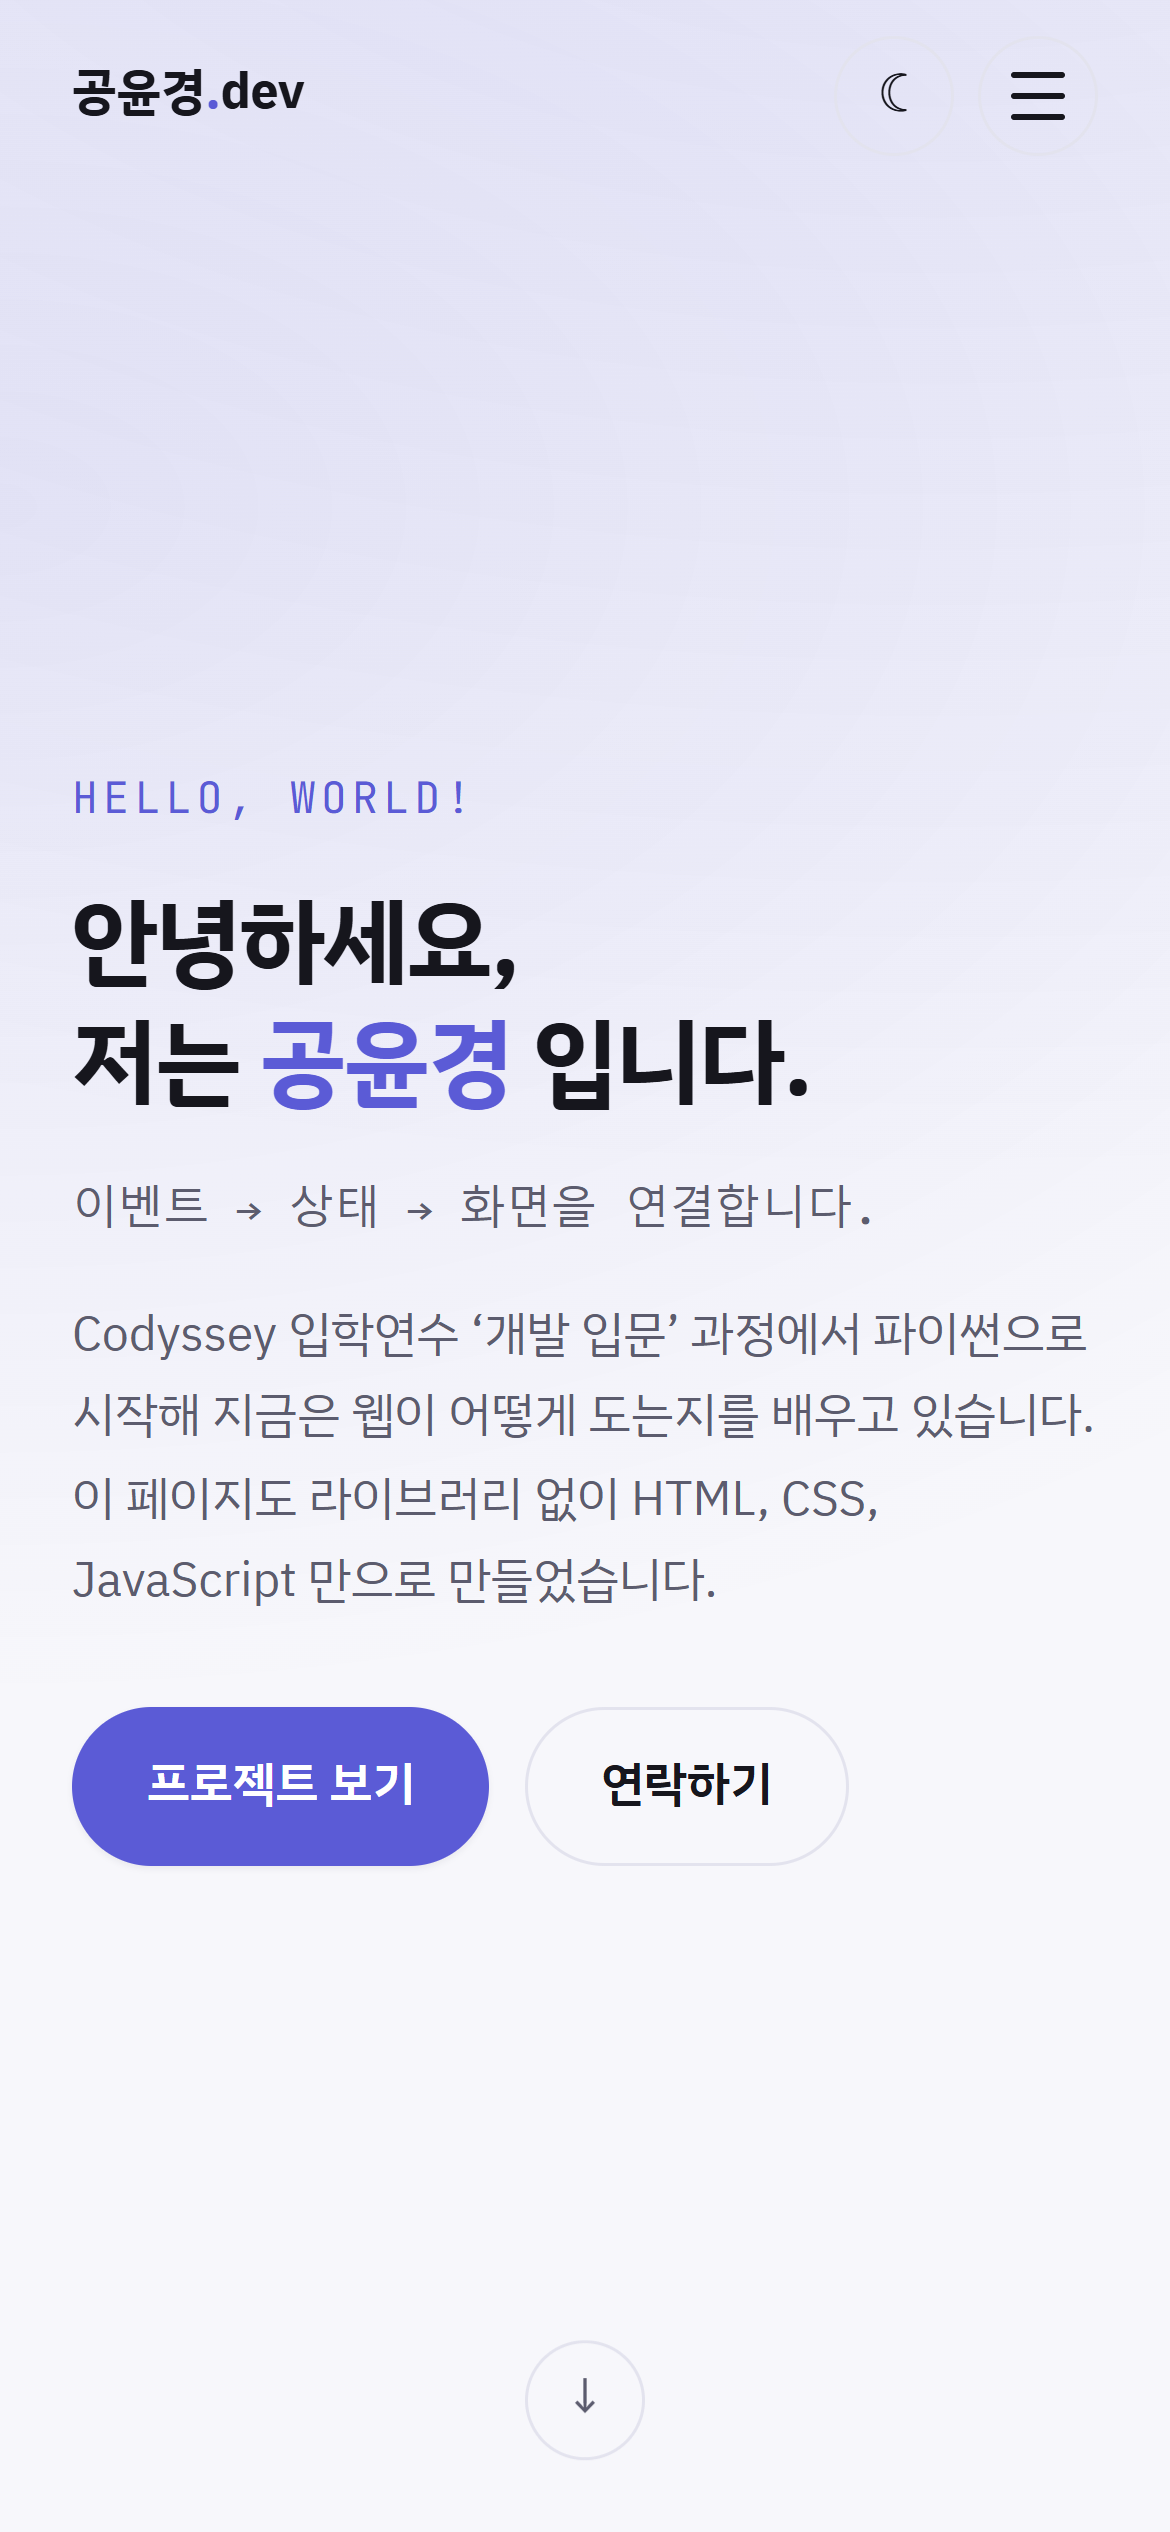
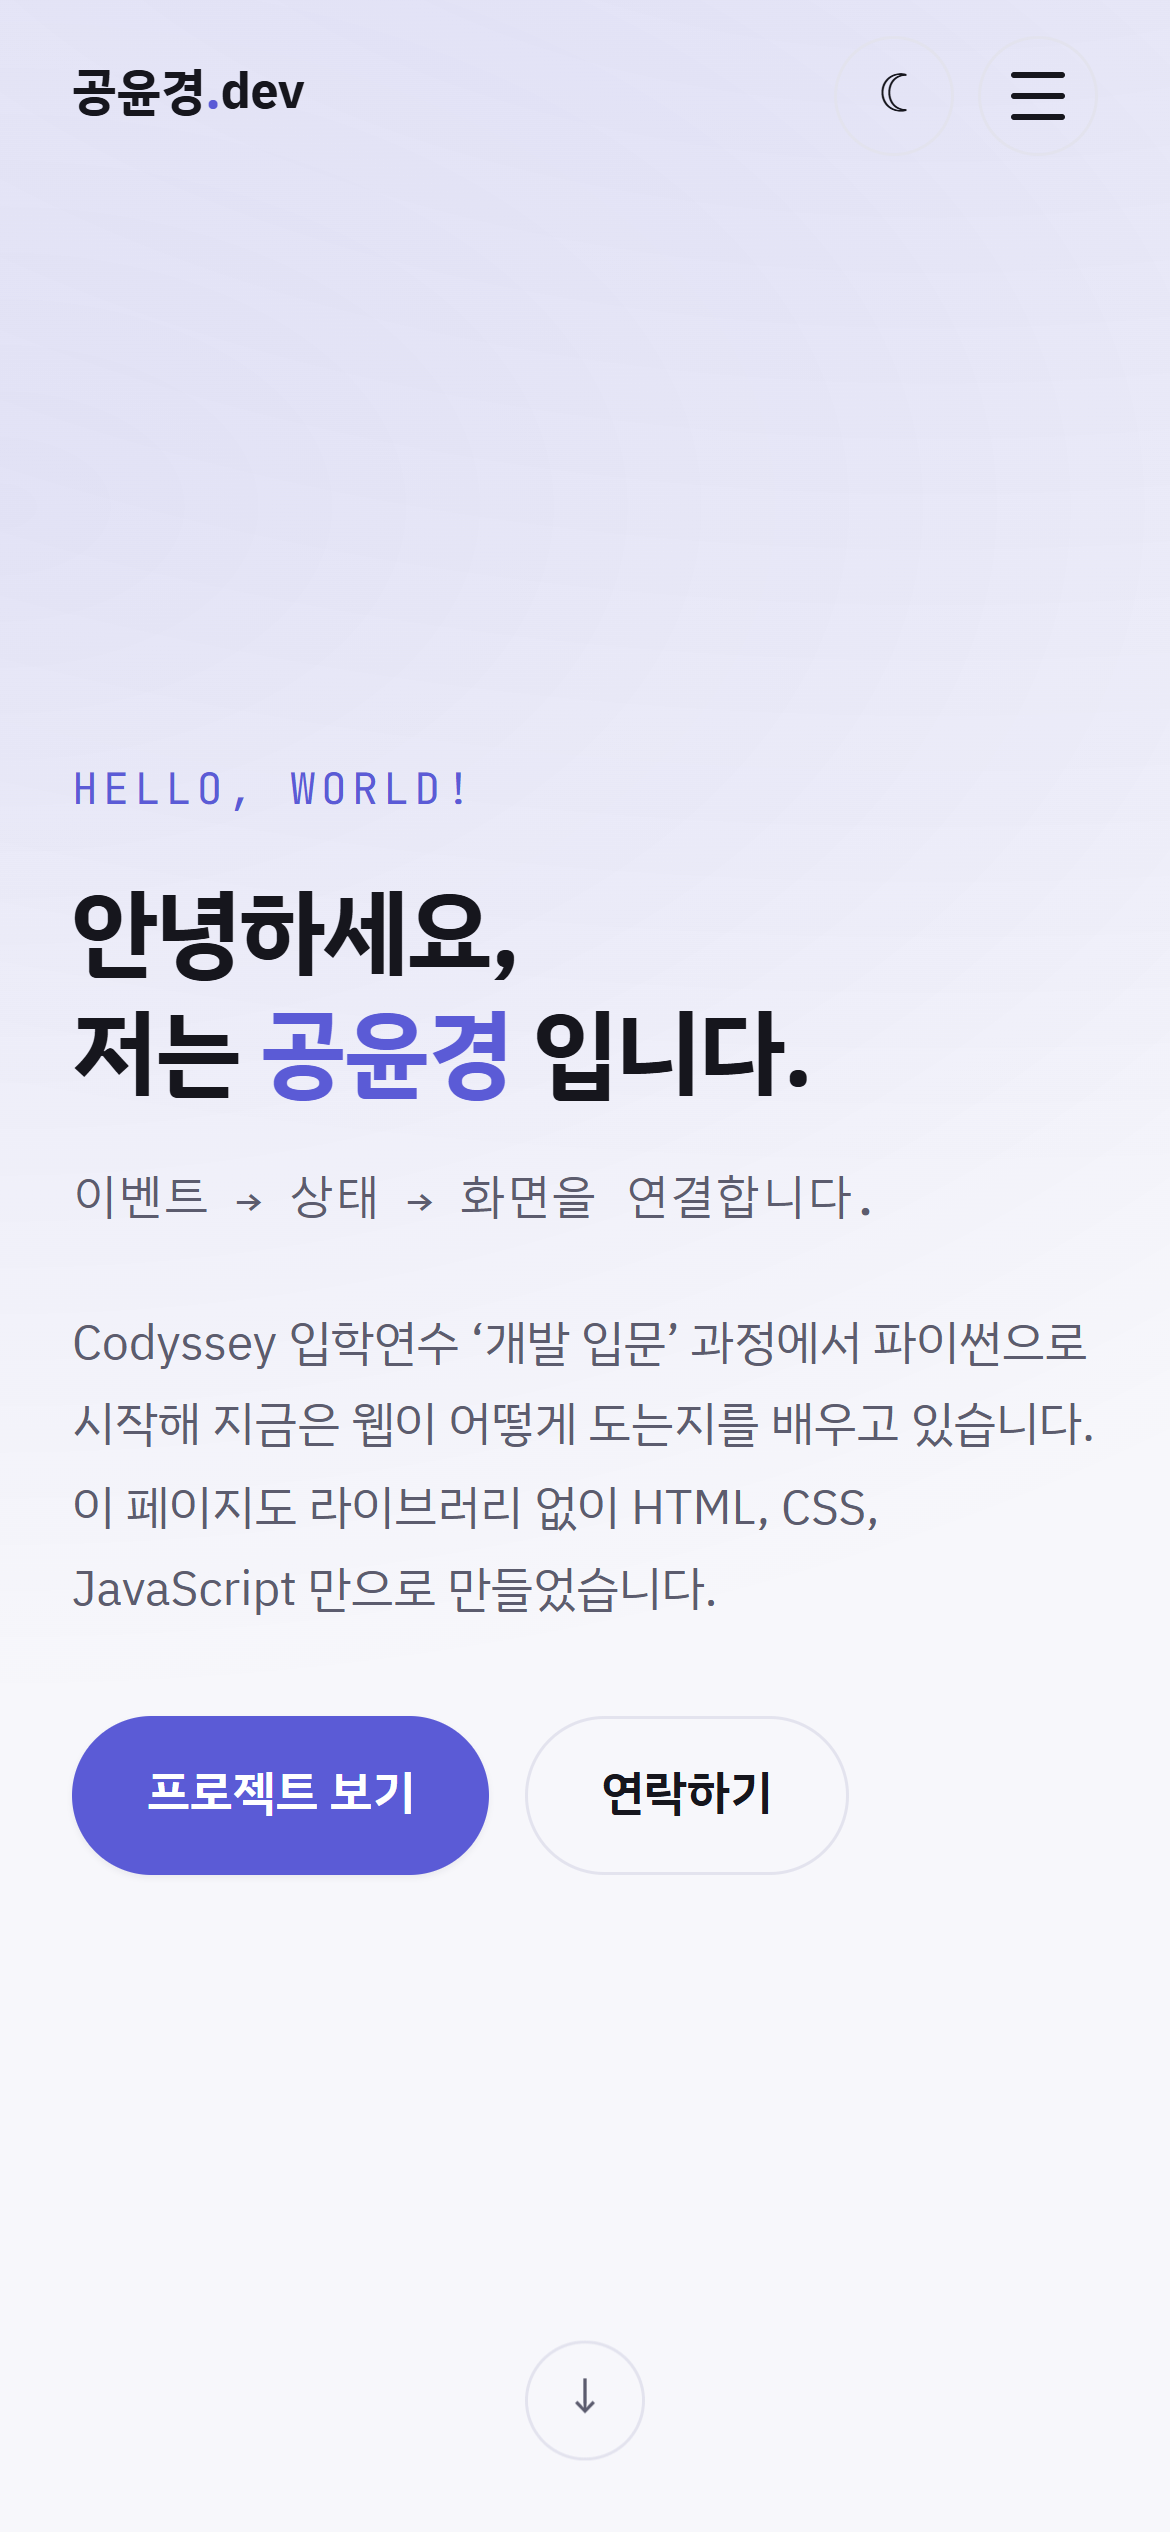
Feat: 보너스 과제로 타이핑 효과와 시스템 다크 모드 감지 추가
hero.js 는 문장을 한 글자씩 늘렸다 줄이며 세 문장을 순환한다. setInterval 이
아니라 setTimeout 을 매번 다시 거는 이유는 찍는 간격(90ms), 지우는 간격(45ms),
다 찍고 머무는 시간(1600ms)이 서로 달라 고정 간격으로는 표현할 수 없어서다.
글자를 이어 붙이지 않고 slice 로 잘라 넣는다. 붙이는 방식은 지울 때 되돌릴 수가
없고, 화면과 글자 수 상태가 한번 어긋나면 맞추기 어렵다. 움직임을 줄이는 설정을
켠 사용자에게는 애니메이션 없이 첫 문장을 보여 준다.

테마는 저장된 선택이 없을 때 prefers-color-scheme 을 따르게 했다. 페이지를 열어
둔 채로 운영체제 설정이 바뀌면 그것도 따라가되, 이 페이지에서 직접 고른 적이
있으면 덮어쓰지 않는다. 이 순서를 지키지 않으면 다크로 바꿔 둔 화면이 저녁에
시스템이 전환되면서 같이 바뀌어 버린다.

로컬에서 보너스 11개 항목과 기존 21개 항목을 모두 확인했다.

Claude-Session: https://claude.ai/code/session_01PsmCD1XgMXJFLaeKV3r5AQ

diff --git a/portfolio-website/js/hero.js b/portfolio-website/js/hero.js
@@ -1,0 +1,60 @@
+/* ============================================================
+   hero.js — 타이핑 효과 (보너스 과제)
+   문장을 한 글자씩 늘렸다 줄이며 다음 문장으로 넘어간다.
+
+   setInterval 을 쓰지 않고 setTimeout 을 매번 다시 거는 이유는,
+   글자를 찍을 때(90ms)와 지울 때(45ms), 다 찍고 머무를 때(1600ms)의
+   간격이 서로 다르기 때문이다. 고정 간격으로는 이 셋을 표현할 수 없다.
+   ============================================================ */
+(() => {
+  'use strict';
+
+  const PHRASES = [
+    '이벤트 → 상태 → 화면을 연결합니다.',
+    '웹이 어떻게 도는지 배우는 중입니다.',
+    '라이브러리 없이 직접 만들어 봅니다.',
+  ];
+
+  const TYPE_DELAY = 90; // 한 글자 찍는 간격
+  const ERASE_DELAY = 45; // 한 글자 지우는 간격
+  const HOLD_DELAY = 1600; // 문장을 다 찍고 머무는 시간
+
+  const output = document.querySelector('#typing-text');
+
+  /* 움직임을 줄이는 설정을 켠 사용자에게는 애니메이션 없이 첫 문장만 보여 준다 */
+  if (window.matchMedia('(prefers-reduced-motion: reduce)').matches) {
+    output.textContent = PHRASES[0];
+    return;
+  }
+
+  let phraseIndex = 0;
+  let charCount = 0;
+  let isErasing = false;
+
+  const tick = () => {
+    const phrase = PHRASES[phraseIndex];
+
+    charCount += isErasing ? -1 : 1;
+
+    /* slice 로 잘라 넣는다. 한 글자씩 이어 붙이면 지울 때 되돌릴 수가 없고,
+       화면과 charCount 가 어긋나기 시작하면 맞추기 어렵다. */
+    output.textContent = phrase.slice(0, charCount);
+
+    /* 다 찍었으면 지우기로 바꾸고, 그 자리에 잠시 머문다 */
+    if (!isErasing && charCount === phrase.length) {
+      isErasing = true;
+      window.setTimeout(tick, HOLD_DELAY);
+      return;
+    }
+
+    /* 다 지웠으면 다음 문장으로 넘어간다 */
+    if (isErasing && charCount === 0) {
+      isErasing = false;
+      phraseIndex = (phraseIndex + 1) % PHRASES.length;
+    }
+
+    window.setTimeout(tick, isErasing ? ERASE_DELAY : TYPE_DELAY);
+  };
+
+  tick();
+})();

diff --git a/portfolio-website/index.html b/portfolio-website/index.html
@@ -26,13 +26,17 @@
       } catch (error) {
         saved = null;
       }
-      document.documentElement.dataset.theme = saved || 'light';
+      /* 고른 적이 있으면 그 선택을, 없으면 운영체제 설정을 따른다 */
+      const prefersDark = window.matchMedia('(prefers-color-scheme: dark)').matches;
+
+      document.documentElement.dataset.theme = saved || (prefersDark ? 'dark' : 'light');
     })();
   </script>
 
   <script defer src="js/theme.js"></script>
   <script defer src="js/navigation.js"></script>
   <script defer src="js/scroll.js"></script>
+  <script defer src="js/hero.js"></script>
   <script defer src="js/projects.js"></script>
   <script defer src="js/contact-form.js"></script>
 </head>
@@ -77,7 +81,9 @@
           안녕하세요,<br />
           저는 <span class="hero__name">공윤경</span> 입니다.
         </h1>
-        <p class="hero__tagline">이벤트 → 상태 → 화면을 연결합니다.</p>
+        <p class="hero__typing">
+          <span class="hero__typing-text" id="typing-text"></span><span class="hero__caret" aria-hidden="true"></span>
+        </p>
         <p class="hero__lead">
           Codyssey 입학연수 &lsquo;개발 입문&rsquo; 과정에서 파이썬으로 시작해
           지금은 웹이 어떻게 도는지를 배우고 있습니다.

diff --git a/portfolio-website/js/theme.js b/portfolio-website/js/theme.js
@@ -10,9 +10,18 @@
   const root = document.documentElement;
   const toggleButton = document.querySelector('#theme-toggle');
   const toggleIcon = document.querySelector('#theme-toggle-icon');
+  const systemDark = window.matchMedia('(prefers-color-scheme: dark)');
 
   /* localStorage 는 시크릿 모드나 저장 차단 설정에서 예외를 던진다.
      테마 하나 때문에 페이지 전체가 멈추면 안 되므로 감싸 둔다. */
+  const readStored = () => {
+    try {
+      return localStorage.getItem(STORAGE_KEY);
+    } catch (error) {
+      return null;
+    }
+  };
+
   const writeStored = (theme) => {
     try {
       localStorage.setItem(STORAGE_KEY, theme);
@@ -40,5 +49,15 @@
 
     applyTheme(nextTheme);
     writeStored(nextTheme);
+  });
+
+  /* 보너스: 운영체제의 다크 모드 설정을 따라간다.
+     단, 사용자가 이 페이지에서 직접 고른 적이 있으면 그 선택을 덮어쓰지 않는다.
+     첫 방문의 시작값은 <head> 의 인라인 스크립트가 같은 기준으로 정한다. */
+  systemDark.addEventListener('change', (event) => {
+    if (readStored()) {
+      return;
+    }
+    applyTheme(event.matches ? 'dark' : 'light');
   });
 })();

diff --git a/portfolio-website/css/style.css b/portfolio-website/css/style.css
@@ -410,10 +410,37 @@ code {
   color: var(--color-accent);
 }
 
-.hero__tagline {
+/* 타이핑 효과. 글자 수가 변하는 동안 아래 내용이 들썩이지 않도록
+   최소 높이를 잡아 둔다. */
+.hero__typing {
+  min-height: 2rem;
   font-family: var(--font-mono);
   font-size: clamp(0.95rem, 3.6vw, 1.25rem);
   color: var(--color-text-muted);
+}
+
+.hero__caret {
+  display: inline-block;
+  width: 0.6ch;
+  margin-left: 0.1ch;
+  background-color: var(--color-accent);
+  animation: caret-blink 1s step-end infinite;
+}
+
+/* 빈 인라인 요소는 높이가 0이라 커서가 보이지 않는다.
+   화면에 읽히지 않는 공백 문자로 한 줄 높이를 만든다. */
+.hero__caret::before {
+  content: '\00a0';
+}
+
+@keyframes caret-blink {
+  0%,
+  100% {
+    opacity: 1;
+  }
+  50% {
+    opacity: 0;
+  }
 }
 
 .hero__lead {
